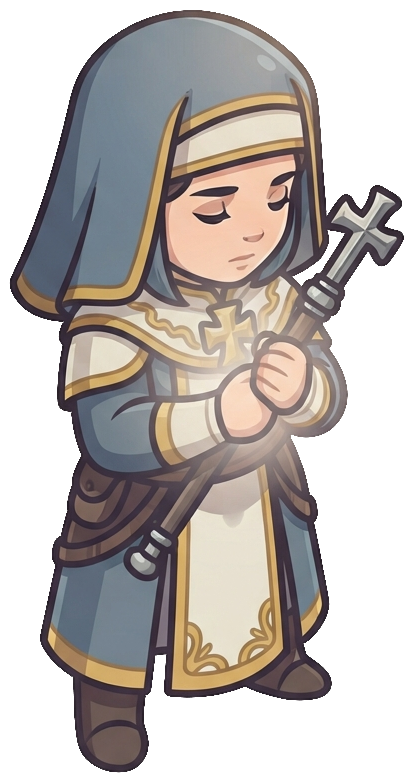
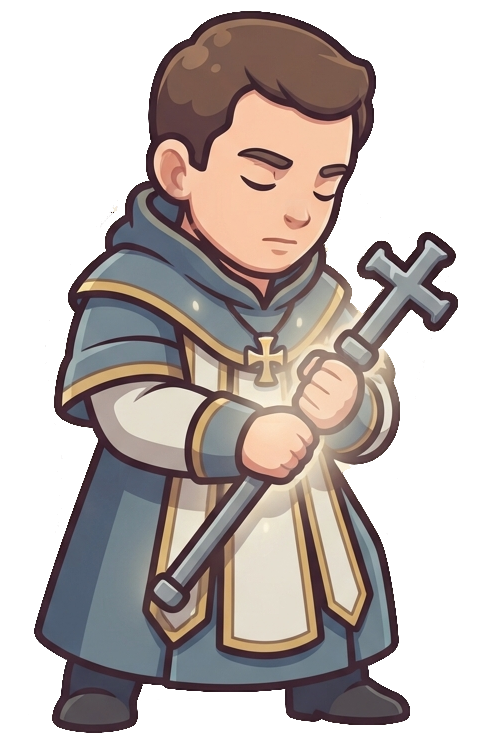
feat(art): プリーストを男で描き直し、旧版を priest_b として残す
8/27 にプロンプトだけ男へ直していたが絵は女性のままだったので、駒と立ち絵
を出し直す。フードは被せず顔を出す＝ビショップと揃える。気に入っている旧版
は変種letter b として -src に残す（ゲームは token 無しの master を読む）。

立ち絵が正面向きで出たため、POSE カタログの channel に向きの指定を足した。
祈り・詠唱は左右対称の姿勢なので、STYLE の向き指定だけでは正面に落ちる。

diff --git a/doc/art/units.md b/doc/art/units.md
@@ -207,7 +207,7 @@ POSE カタログ（役割で選ぶ。増やしてよい）:
 POSE (melee): A dynamic battle-ready action pose — weapon raised or mid-strike, weight forward, leaning into the blow as the character presses toward the enemy on the right.
 ```
 ```
-POSE (channel): A calm, grounded channelling pose — standing composed with both feet planted, focused on working a spell or blessing rather than striking; not lunging, not advancing.
+POSE (channel): A calm, grounded channelling pose — standing composed with both feet planted, focused on working a spell or blessing rather than striking; not lunging, not advancing. Even while channelling, the body stays TURNED to the right edge of the frame — shoulders and hips angled that way, one foot ahead of the other; NOT square to the viewer.
 ```
 ```
 POSE (ranged): A poised shooting stance — bow drawn to the cheek (or crossbow/gun leveled), aiming toward the enemy on the right, weight balanced and steady, focused down the shot; not lunging into melee.
